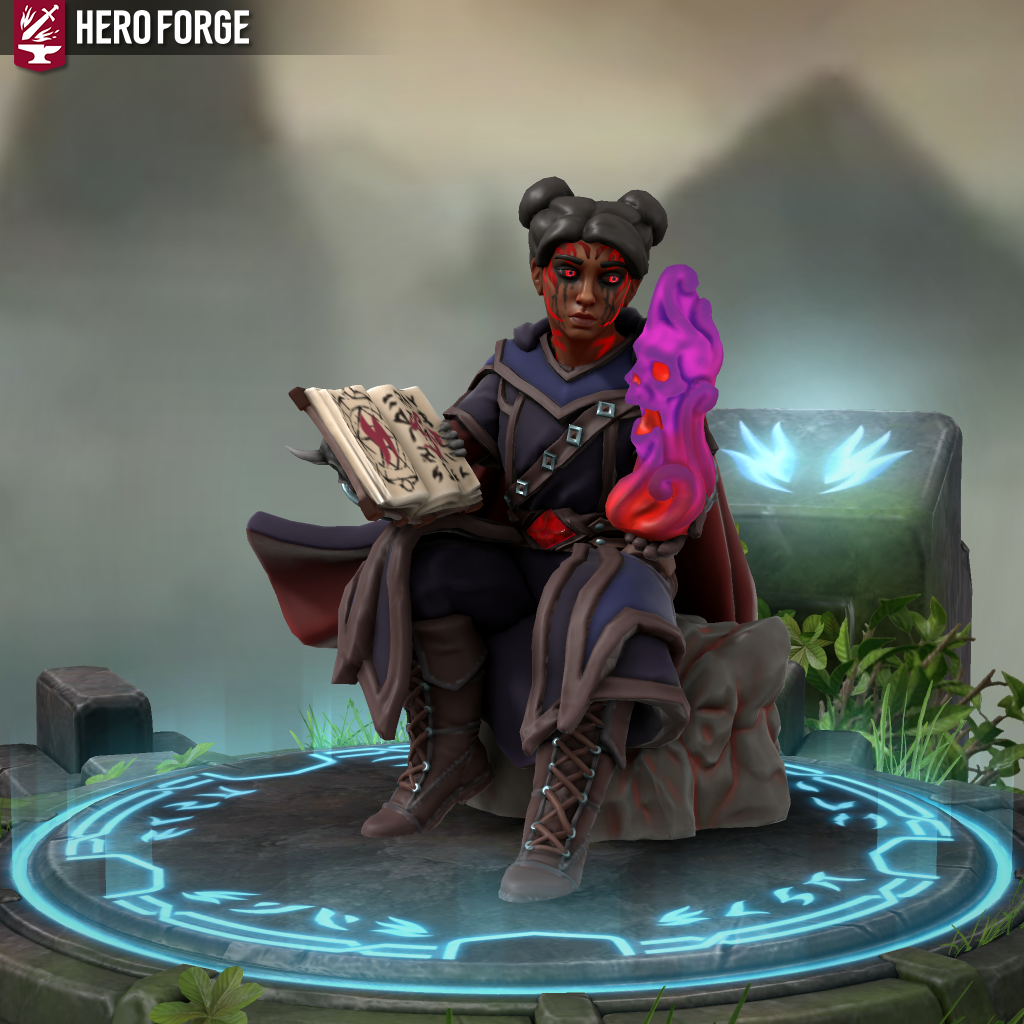
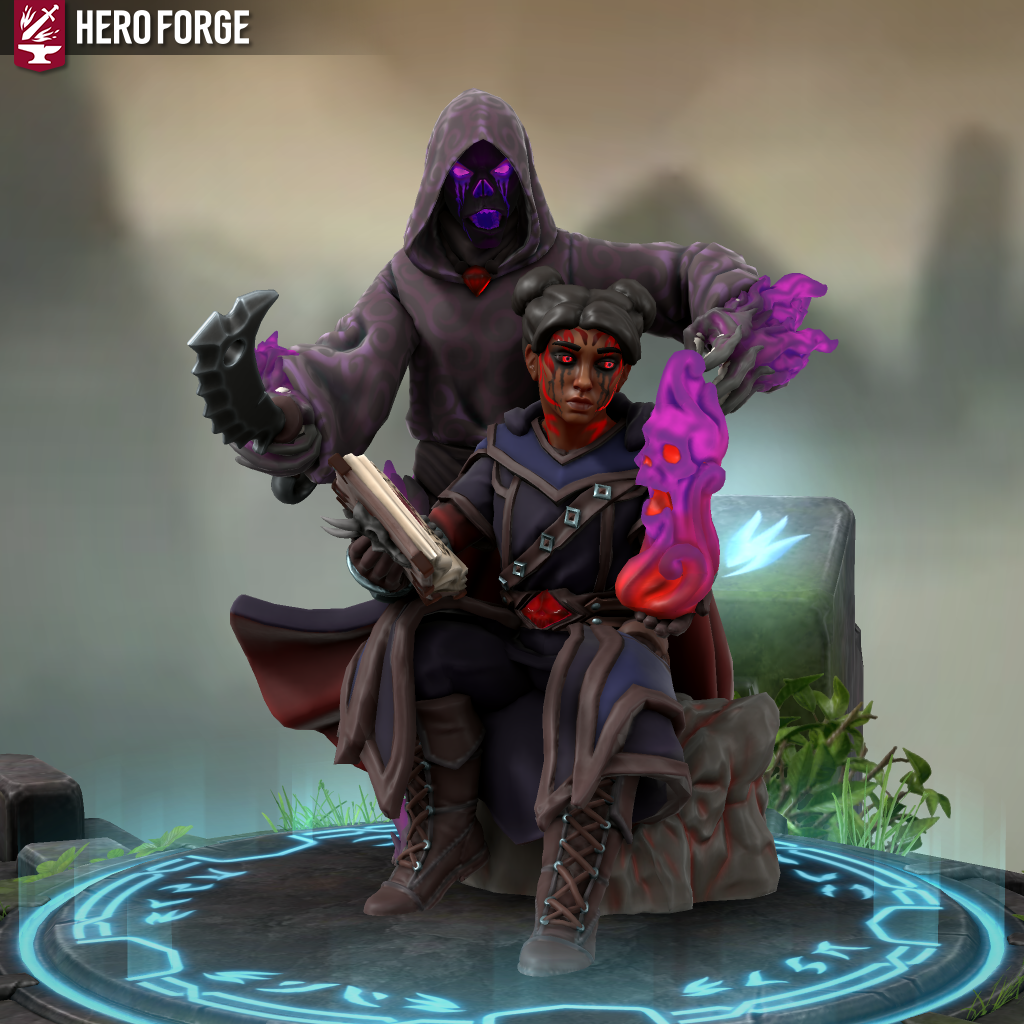
feat: casts added

diff --git a/src/app/(pages)/classes/components/ClasseStory/components/ScenesContent.tsx b/src/app/(pages)/classes/components/ClasseStory/components/ScenesContent.tsx
@@ -3,21 +3,24 @@ import CompDivisor from "@/app/components/CompDivisor"
 import React, { useState } from "react"
 
 import { genericIcons } from "@/app/assets/icons"
+import { TypedCast } from "@/app/typings/classes"
 
 interface IProps {
   image_path: string
   title: string
   body: string
+  casts: TypedCast[]
   position: "right" | "left"
 }
 
-
-const ScenesContent = ( { image_path, title, body, position }:IProps ) => {
+const ScenesContent = ( { image_path, title, body, casts, position }:IProps ) => {
   const [modalIsOpened, set_modalIsOpened] = useState<boolean>(false)
+  const [castingIsOpened, set_castingIsOpened] = useState<boolean>(false)
 
   const handleBackdrop = (event: any) => {
     if(event.target.id === 'sceneBackdrop') {
       set_modalIsOpened(false)
+      set_castingIsOpened(false)
       bodyScroll(false)
     }
   }
@@ -25,11 +28,13 @@ const ScenesContent = ( { image_path, title, body, position }:IProps ) => {
   const handleModalControl = (order: boolean) => {
     if(order) {
       set_modalIsOpened(true)
+      set_castingIsOpened(false)
       bodyScroll(order)
 
       return
     } else {
       set_modalIsOpened(false)
+      set_castingIsOpened(false)
       bodyScroll(order)
 
       return
@@ -51,7 +56,7 @@ const ScenesContent = ( { image_path, title, body, position }:IProps ) => {
       <div className="flex flex-col items-end w-full">
         <h5 className="text-center lg:text-end pr-2 w-full font-semibold text-lg text-amber-400">{title}</h5>
         <CompDivisor />
-        <div className="max-h-[280px] overflow-y-hidden relative p-2">
+        <div className="max-h-[280px] w-full h-full overflow-y-hidden relative p-2">
           <p className="text-start text-xs mt-2" dangerouslySetInnerHTML={{ __html: body }}/>
           {body &&(
             <button 
@@ -72,12 +77,39 @@ const ScenesContent = ( { image_path, title, body, position }:IProps ) => {
         <div className="fixed z-10 w-screen h-screen bg-slate-900/50 top-0 left-0" id={'sceneBackdrop'} onClick={(event) => handleBackdrop(event)}>
           <div className="absolute w-[600px] max-w-[95vw] h-[700px] max-h-[95vh] bg-slate-700 drop-shadow-[0_0_100px_rgb(0,0,0)] top-[50%] left-[50%] rounded-md transform translate-x-[-50%] translate-y-[-50%] z-20 p-3 pt-10 flex flex-col items-center">
             <button className="absolute top-3 right-3 transition-all duration-300 text-lg hover:text-slate-400" onClick={(event) => handleModalControl(false)}> <genericIcons.CloseIcon /> </button>
-            <div className="overflow-y-scroll relative px-2">
+            <div className="overflow-y-scroll w-full relative px-2">
               <h5 className="pr-2 text-center font-semibold text-lg text-amber-400">{title}</h5>
               <CompDivisor />
-              <div className="w-[350px] h-[300px] flex-shrink-0 overflow-hidden rounded-lg border border-slate-700 mt-4 mx-auto" >
-                <img className="object-contain transform translate-y-[-25px]" src={`/scenes/${image_path}.png`} />
+              <div className="w-[350px] h-[300px] max-w-full flex flex-shrink-0 overflow-hidden rounded-lg border border-slate-700 mt-4 mx-auto" >
+                <img className="object-cover w-full transform translate-x-0" src={`/scenes/${image_path}.png`} />
               </div>
+
+              {casts?.length ?
+                <div>
+                  <p className="mt-2 text-center text-amber-400 font-semibold cursor-pointer transition-all duration-300  hover:underline hover:text-amber-500"
+                    onClick={() => set_castingIsOpened(!castingIsOpened)}
+                  >
+                    Elenco
+                  </p>
+                  {castingIsOpened &&(
+                    <div className="flex gap-4 w-[90%] m-auto overflow-x-scroll bg-slate-800/30 p-2 px-4 rounded-md">
+                      {casts.map((item) => {
+                        return(
+                          <div className="shrink-0 flex flex-col items-center group w-32">
+                            <img className="w-32 rounded-lg border border-slate-800 transition-all duration-300 group-hover:scale-105"
+                              src={`/scenes/casts/${item.pre_path}/${item.image_path}.png`}
+                            />
+                            <p className="text-sm mt-1 transition-all duration-300 group-hover:text-amber-400">{item.name}</p>
+                            <p className="text-xs text-slate-400">{item.subname}</p>
+                          </div>
+                        )
+                      })}
+                    </div>
+                  )}
+                </div>
+                :
+                null
+              }
 
               <p className="text-start text-xs mt-4 mb-8 px-6" dangerouslySetInnerHTML={{ __html: body }}/>
             </div>

diff --git a/src/app/(pages)/classes/components/ClasseStory/index.tsx b/src/app/(pages)/classes/components/ClasseStory/index.tsx
@@ -30,6 +30,7 @@ const ClasseStory = ( { classe }:IProps ) => {
             title={classe.story.scenes.photo1.title}
             body={classe.story.scenes.photo1.body}
             image_path={classe.story.scenes.photo1.image_path}
+            casts={classe.story.scenes.photo1.casts || []}
             position={'right'}
           />
           
@@ -37,6 +38,7 @@ const ClasseStory = ( { classe }:IProps ) => {
           title={classe.story.scenes.photo2.title}
           body={classe.story.scenes.photo2.body}
           image_path={classe.story.scenes.photo2.image_path}
+          casts={classe.story.scenes.photo2.casts|| []}
           position={'left'}
         />
 
@@ -44,6 +46,7 @@ const ClasseStory = ( { classe }:IProps ) => {
           title={classe.story.scenes.photo3.title}
           body={classe.story.scenes.photo3.body}
           image_path={classe.story.scenes.photo3.image_path}
+          casts={classe.story.scenes.photo3.casts || []}
           position={'right'}
         />
       </div>

diff --git a/src/app/typings/classes.d.ts b/src/app/typings/classes.d.ts
@@ -13,16 +13,19 @@ export type TypedClasse = {
               title: string;
               body: string;
               image_path: string;
+              casts?: TypedCast[]
           };
           photo2: {
             title: string;
             body: string;
             image_path: string;
+            casts?: TypedCast[]
           };
           photo3: {
             title: string;
             body: string;
             image_path: string;
+            casts?: TypedCast[]
           };
       };
   };
@@ -38,3 +41,10 @@ export type TypedClasse = {
   }[];
 }
 
+
+export type TypedCast = {
+  name: string;
+  subname: string;
+  pre_path: string;
+  image_path: string;
+}

diff --git a/src/app/layout.tsx b/src/app/layout.tsx
@@ -6,7 +6,7 @@ import Menubar from "./components/Menubar";
 const inter = Inter({ subsets: ["latin"] });
 
 export const metadata: Metadata = {
-  title: "Create Next App",
+  title: "Scars of Fate",
   description: "Generated by create next app",
 };
 

diff --git a/src/app/globals.css b/src/app/globals.css
@@ -29,6 +29,7 @@ i {
 /* width */
 ::-webkit-scrollbar {
   width: 5px;
+  height: 7px;
 }
 
 /* Track */
